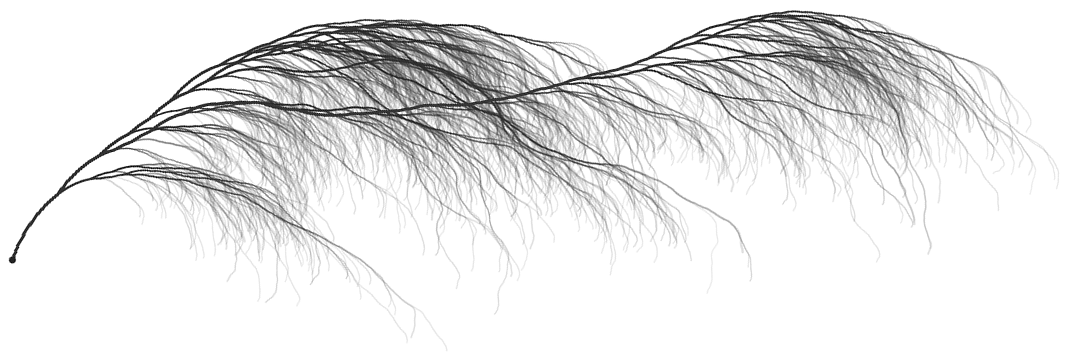
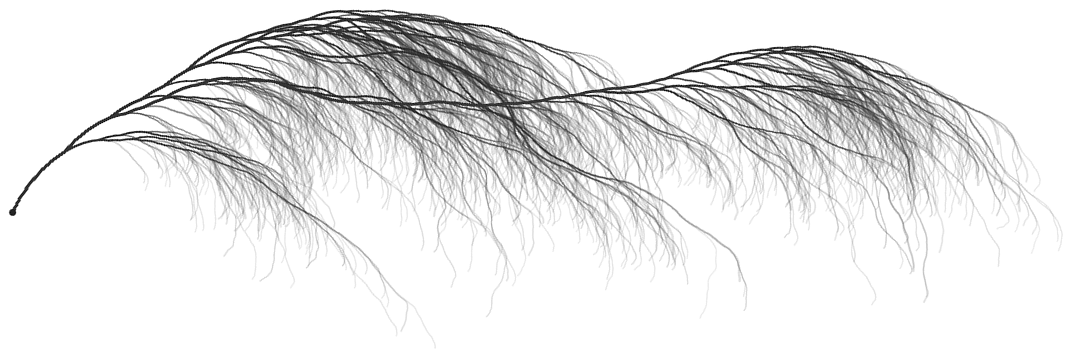
Refine Collatz sweep, restore bold title scale and balance hero composition

diff --git a/index.html b/index.html
@@ -4,19 +4,19 @@
 :root{font-family:Inter,ui-sans-serif,system-ui,-apple-system,BlinkMacSystemFont,"Segoe UI",sans-serif;color:#17253c;background:#f7f9fc;font-synthesis:none}*{box-sizing:border-box}body{margin:0;min-height:100vh}.wrap{max-width:1110px;padding:0 28px;margin:auto}header{border-bottom:1px solid #e5eaf2;background:#fff}.nav{min-height:80px;display:flex;align-items:center;justify-content:space-between;gap:20px}.brand{font-size:19px;font-weight:800;letter-spacing:-.035em;color:#233b60;text-decoration:none}.label{font-size:12px;text-transform:uppercase;letter-spacing:.16em;font-weight:800;color:#627696}main{padding:94px 0 120px}.intro{max-width:780px}.intro h1{font-size:clamp(40px,6vw,66px);line-height:1.04;letter-spacing:-.06em;margin:16px 0 20px}.intro p{color:#55677f;font-size:19px;line-height:1.65;margin:0}.section-heading{display:flex;justify-content:space-between;align-items:end;gap:16px;margin:76px 0 22px}.section-heading h2{font-size:24px;letter-spacing:-.035em;margin:0}.section-heading span{color:#73829a;font-size:14px}.grid{display:grid;grid-template-columns:repeat(3,minmax(0,1fr));gap:22px}.tile{display:flex;flex-direction:column;min-height:338px;padding:28px;border-radius:24px;background:white;border:1px solid #e6eaf2;box-shadow:0 8px 24px rgba(23,47,85,.035);color:inherit;text-decoration:none;transition:transform .2s,box-shadow .2s,border-color .2s}.tile:hover{transform:translateY(-4px);box-shadow:0 15px 36px rgba(23,47,85,.1);border-color:#b9c9df}.tile:focus-visible{outline:3px solid #3376d4;outline-offset:4px}.iconbox{position:relative;display:grid;place-items:center;width:96px;height:96px;border-radius:25px;color:white;overflow:hidden}.iconbox .letter{font-size:68px;font-weight:900;line-height:1;letter-spacing:-.1em;margin-left:-.1em}.m{background:linear-gradient(135deg,#9a66eb,#6935c4)}.c{background:linear-gradient(135deg,#0e9eac,#125c8e)}.a{background:linear-gradient(135deg,#f49c58,#e65b60)}.accent{position:absolute;right:13px;top:11px;width:25px;height:25px;fill:none;stroke:#fff;stroke-width:2.7;stroke-linejoin:round;stroke-linecap:round}.iconbox .accent.lower{right:10px;top:61px}.tile h3{font-size:23px;letter-spacing:-.035em;margin:24px 0 9px}.tile p{color:#63748b;font-size:15px;line-height:1.6;margin:0}.tile .arrow{margin-top:auto;padding-top:23px;color:#335f9e;font-size:14px;font-weight:800}.foot{border-top:1px solid #e5eaf2;padding:26px 0 36px;color:#74849b;font-size:13px}@media(max-width:800px){main{padding-top:58px}.grid{grid-template-columns:1fr 1fr}.tile{min-height:320px}}@media(max-width:600px){.wrap{padding:0 20px}.grid{grid-template-columns:1fr}.tile{min-height:275px}.section-heading{margin-top:52px}.intro p{font-size:17px}.nav .label{display:none}}@media(prefers-reduced-motion:reduce){.tile{transition:none}.tile:hover{transform:none}}
 
 /* One composition scaled as a unit; the original artwork is baked into a
-   transparent asset with a gentle upward sweep. No filters or blend modes. */
+   transparent asset with an approximately 12-degree upward sweep. No filters or blend modes. */
 main.wrap{padding-top:28px}
-.hero-logo{position:relative;isolation:isolate;width:min(100%,960px);margin:0 auto;container-type:inline-size}
+.hero-logo{position:relative;isolation:isolate;width:min(100%,850px);margin:0 auto;container-type:inline-size}
 .collatz-arc{position:absolute;z-index:2;pointer-events:none;inset:0}
-.collatz-arc img{display:block;width:100%;height:auto;opacity:.78}
-.labmark{display:none} /* Original teal mark retained for future use. */
+.collatz-arc img{display:block;width:100%;height:auto;opacity:.72}
+.labmark{width:122px;height:122px;flex:0 0 122px;place-items:center;background:#225b78;border-radius:29px;display:none} /* Original teal mark retained for future use. */
 .labmark svg{width:65%;height:65%}
-.hero-logo .intro{display:block;max-width:none;margin:0;padding:13.5% 0 0 8%}
+.hero-logo .intro{display:block;max-width:none;margin:0;padding:18% 0 0 8%}
 .intro-heading{min-width:0}
-.hero-logo h1{font-size:clamp(24px,7.8cqi,75px);line-height:1.04;letter-spacing:-.06em;font-weight:850;white-space:nowrap;margin:0 0 14px;color:#17253c}
+.hero-logo h1{font-size:clamp(24px,10cqi,86px);line-height:1.04;letter-spacing:-.06em;font-weight:850;white-space:nowrap;margin:0 0 14px;color:#17253c}
 .title-front{position:relative;z-index:3}
 .title-behind{position:relative;z-index:1}
-.hero-logo p{position:relative;z-index:3;font-size:clamp(15px,2.6cqi,25px);line-height:1.3;letter-spacing:.005em;color:#566a82;margin:0;padding-top:6.5%}
+.hero-logo p{position:relative;z-index:3;font-size:clamp(15px,2.6cqi,25px);line-height:1.3;letter-spacing:.005em;color:#566a82;margin:0;padding-top:5%}
 .section-heading{margin-top:64px}
 @media(max-width:600px){
  main.wrap{padding-top:28px}
@@ -26,7 +26,7 @@ main.wrap{padding-top:28px}
 }
 </style></head><body>
 <header><div class="wrap nav"><a class="brand" href="#top">The Curiosity Lab</a><span class="label">Explore • Experiment • Discover</span></div></header>
-<main id="top" class="wrap"><div class="hero-logo"><div class="collatz-arc" aria-hidden="true"><img src="collatz-hero.webp" alt="" width="1068" height="360" fetchpriority="high"></div><div class="intro"><div class="labmark" aria-hidden="true"><svg viewBox="0 0 72 72" fill="none" stroke="white" stroke-width="5" stroke-linecap="round"><ellipse cx="36" cy="36" rx="15" ry="29" transform="rotate(45 36 36)"/><ellipse cx="36" cy="36" rx="15" ry="29" transform="rotate(-45 36 36)"/></svg></div><div class="intro-heading"><h1><span class="title-front">The Curiosity </span><span class="title-behind">Lab</span></h1><p>Explore. Experiment. Discover.</p></div></div></div>
+<main id="top" class="wrap"><div class="hero-logo"><div class="collatz-arc" aria-hidden="true"><img src="collatz-hero.webp" alt="" width="1071" height="357" fetchpriority="high"></div><div class="intro"><div class="labmark" aria-hidden="true"><svg viewBox="0 0 72 72" fill="none" stroke="white" stroke-width="5" stroke-linecap="round"><ellipse cx="36" cy="36" rx="15" ry="29" transform="rotate(45 36 36)"/><ellipse cx="36" cy="36" rx="15" ry="29" transform="rotate(-45 36 36)"/></svg></div><div class="intro-heading"><h1><span class="title-front">The Curiosity </span><span class="title-behind">Lab</span></h1><p>Explore. Experiment. Discover.</p></div></div></div>
 <div class="section-heading"><h2>Explore the resources</h2><span>3 experiences</span></div>
 <div class="grid">
 <a class="tile" href="https://solisen14.github.io/First-Ace/"><div class="iconbox a"><span class="letter">A</span><svg class="accent" viewBox="0 0 30 30" aria-hidden="true"><path d="M15 3C11 10 5 12 5 17a6 6 0 0 0 10 3 6 6 0 0 0 10-3C25 12 19 10 15 3ZM12 25h6m-3-6v6"/></svg></div><h3>First Ace</h3><p>Shuffle, simulate, and uncover the connections between experimental and theoretical probability.</p><span class="arrow">Explore resource ↗</span></a>
